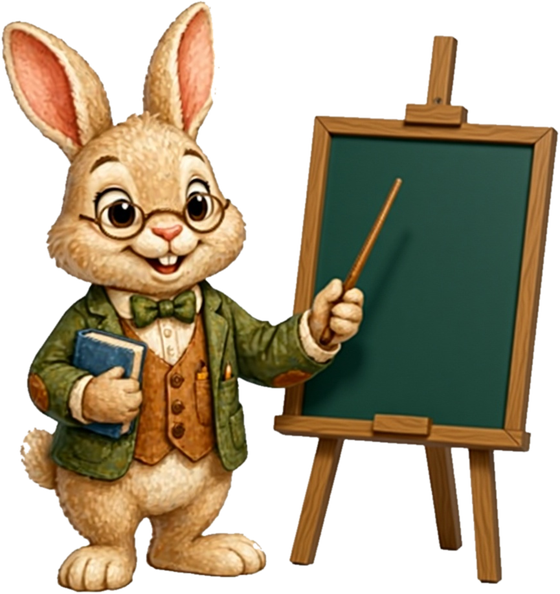
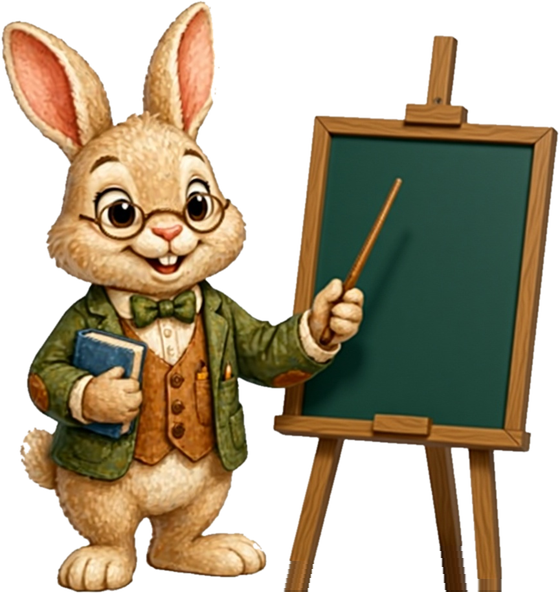
Stand the CTA rabbit's easel on the ground line
The three easel legs stopped in mid-air at three different heights,
each with a flat horizontal end, while the rabbit's own feet reached
9px lower. Against the footer's black rule that read as the whole
picture being clipped. The crop is in the file itself, not in the page:
the source it was cut from ends there.

Each leg is extended down to the rabbit's foot line, following its own
slope, sampled from solid wood four rows above the cut rather than from
the cut edge — the anti-aliased tip pixels turn the extension into a
white stick. The bottom two rows are darkened a shade so the contact
reads. At the rendered 236px the seam is invisible; all four contact
points now land on the same line.

Claude-Session: https://claude.ai/code/session_01MGLSLrmtckx3JqW12WLXoG

Changed region(s): [[0.7893, 0.9091, 0.9107, 1.0], [0.4857, 0.9394, 0.5768, 1.0]]

diff --git a/eski-tasarim.html b/eski-tasarim.html
@@ -11,7 +11,7 @@
     <link href="https://fonts.googleapis.com/css2?family=Nunito:wght@400;600;700;800;900&family=Baloo+2:wght@400;500;600;700;800&display=swap" rel="stylesheet">
     <link href="https://fonts.cdnfonts.com/css/scrambled-tofu" rel="stylesheet">
     <link rel="stylesheet" href="https://cdnjs.cloudflare.com/ajax/libs/font-awesome/6.5.1/css/all.min.css">
-    <link rel="stylesheet" href="eski-tasarim.css?v=53">
+    <link rel="stylesheet" href="eski-tasarim.css?v=54">
 </head>
 <body>
 
@@ -1157,7 +1157,7 @@
             </a>
         </div>
     </div>
-    <img src="tavsan-tahta.png?v=1" alt="" aria-hidden="true" class="cta-bear">
+    <img src="tavsan-tahta.png?v=2" alt="" aria-hidden="true" class="cta-bear">
 </section>
 
 <!-- FOOTER -->

diff --git a/index.html b/index.html
@@ -11,7 +11,7 @@
     <link href="https://fonts.googleapis.com/css2?family=Nunito:wght@400;600;700;800;900&family=Baloo+2:wght@400;500;600;700;800&display=swap" rel="stylesheet">
     <link href="https://fonts.cdnfonts.com/css/scrambled-tofu" rel="stylesheet">
     <link rel="stylesheet" href="https://cdnjs.cloudflare.com/ajax/libs/font-awesome/6.5.1/css/all.min.css">
-    <link rel="stylesheet" href="style.css?v=59">
+    <link rel="stylesheet" href="style.css?v=60">
 </head>
 <body>
 
@@ -1157,7 +1157,7 @@
             </a>
         </div>
     </div>
-    <img src="tavsan-tahta.png?v=1" alt="" aria-hidden="true" class="cta-bear">
+    <img src="tavsan-tahta.png?v=2" alt="" aria-hidden="true" class="cta-bear">
 </section>
 
 <!-- FOOTER -->
